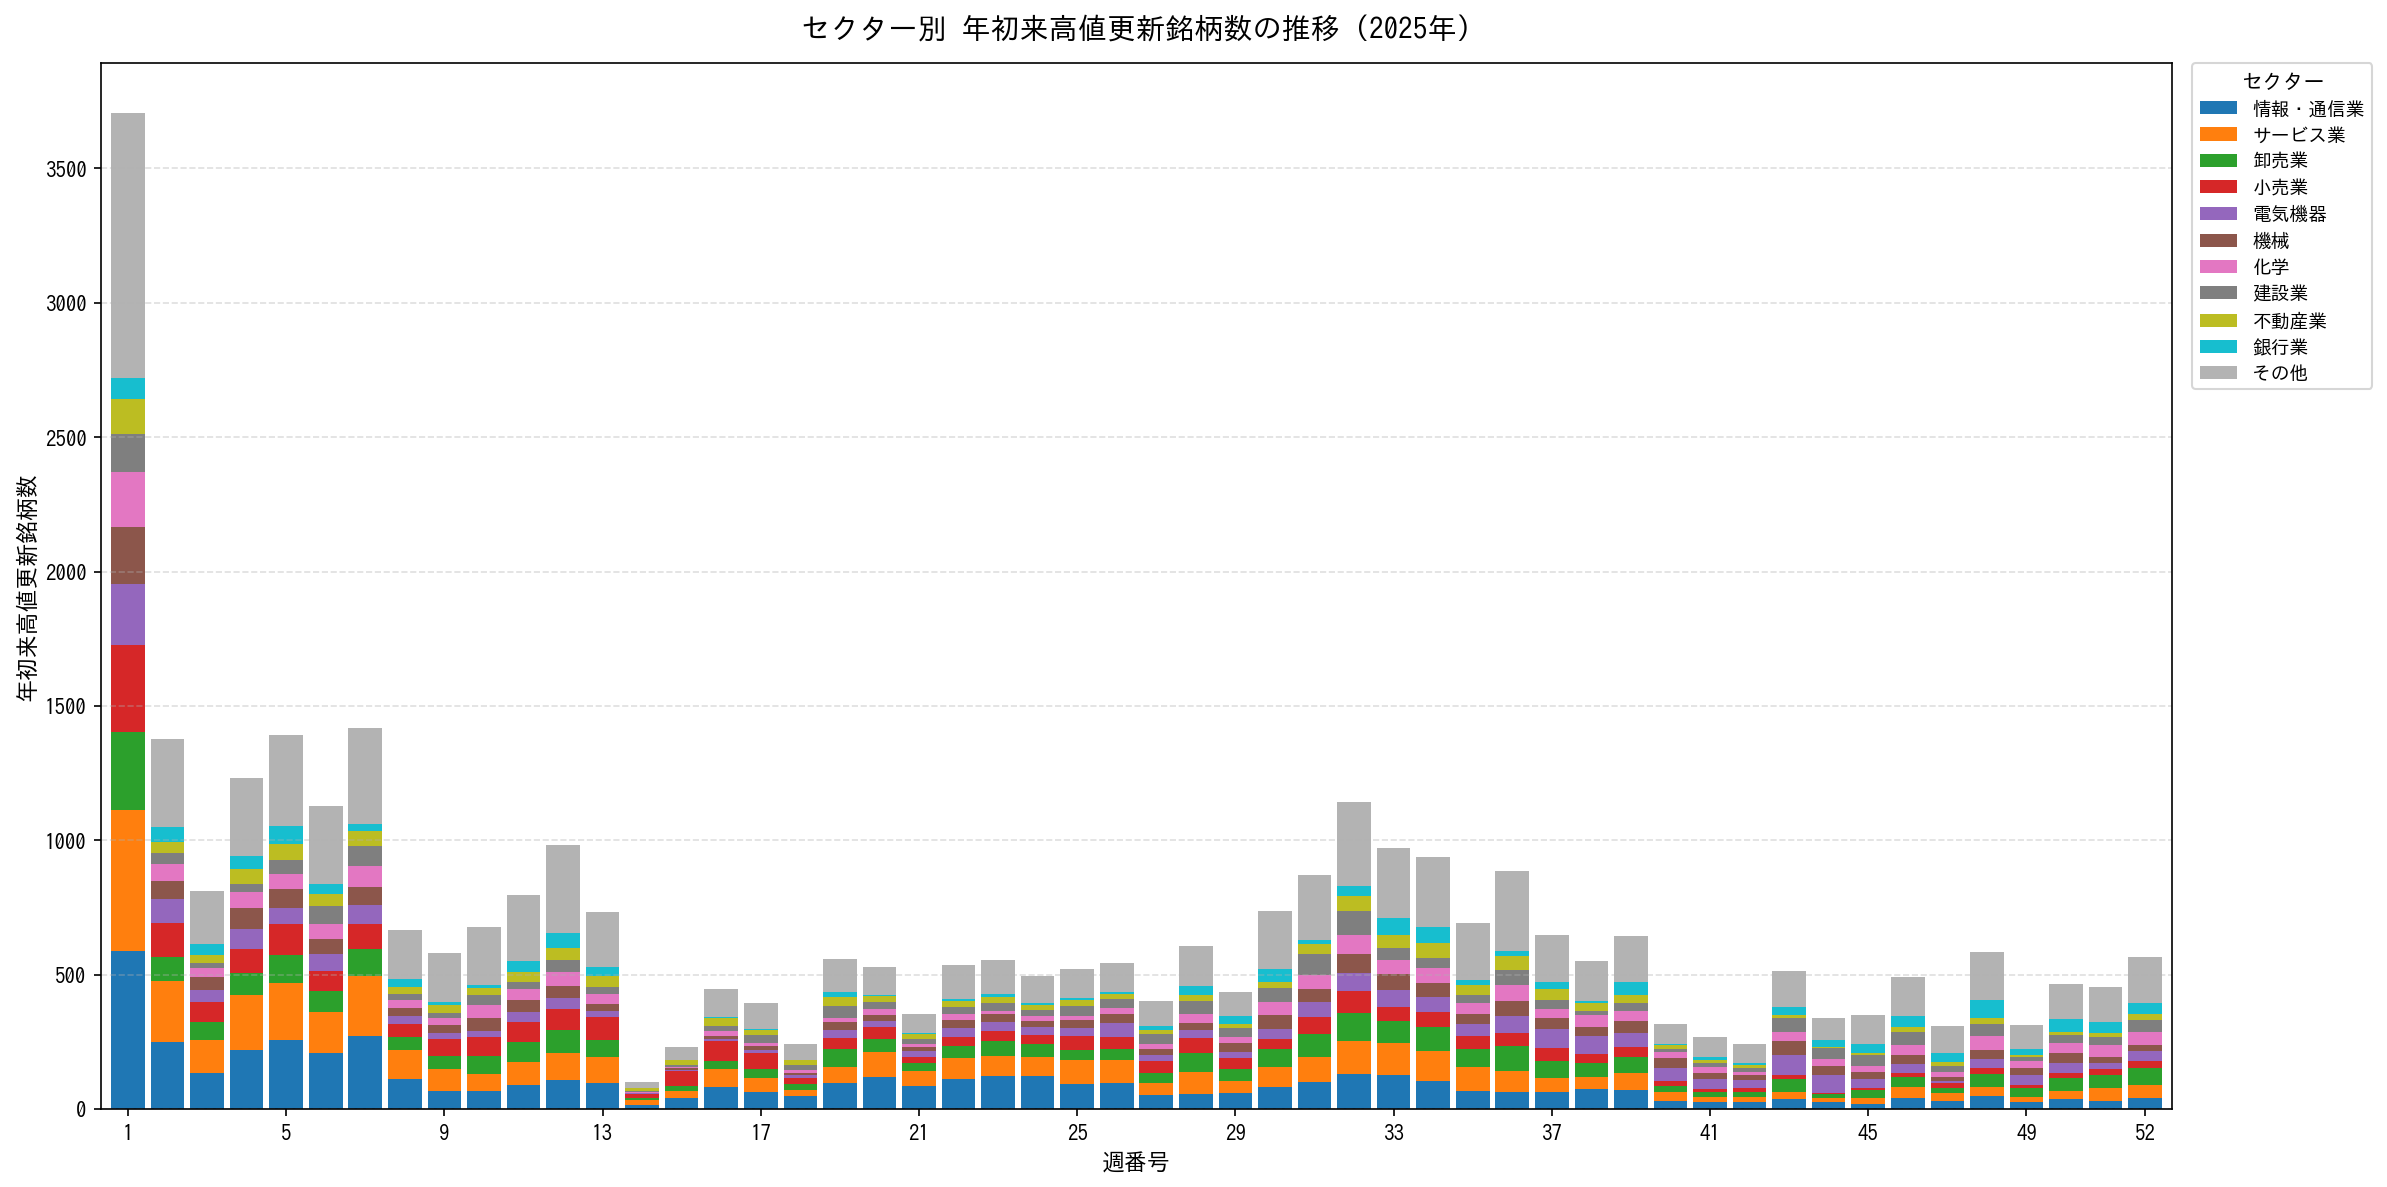
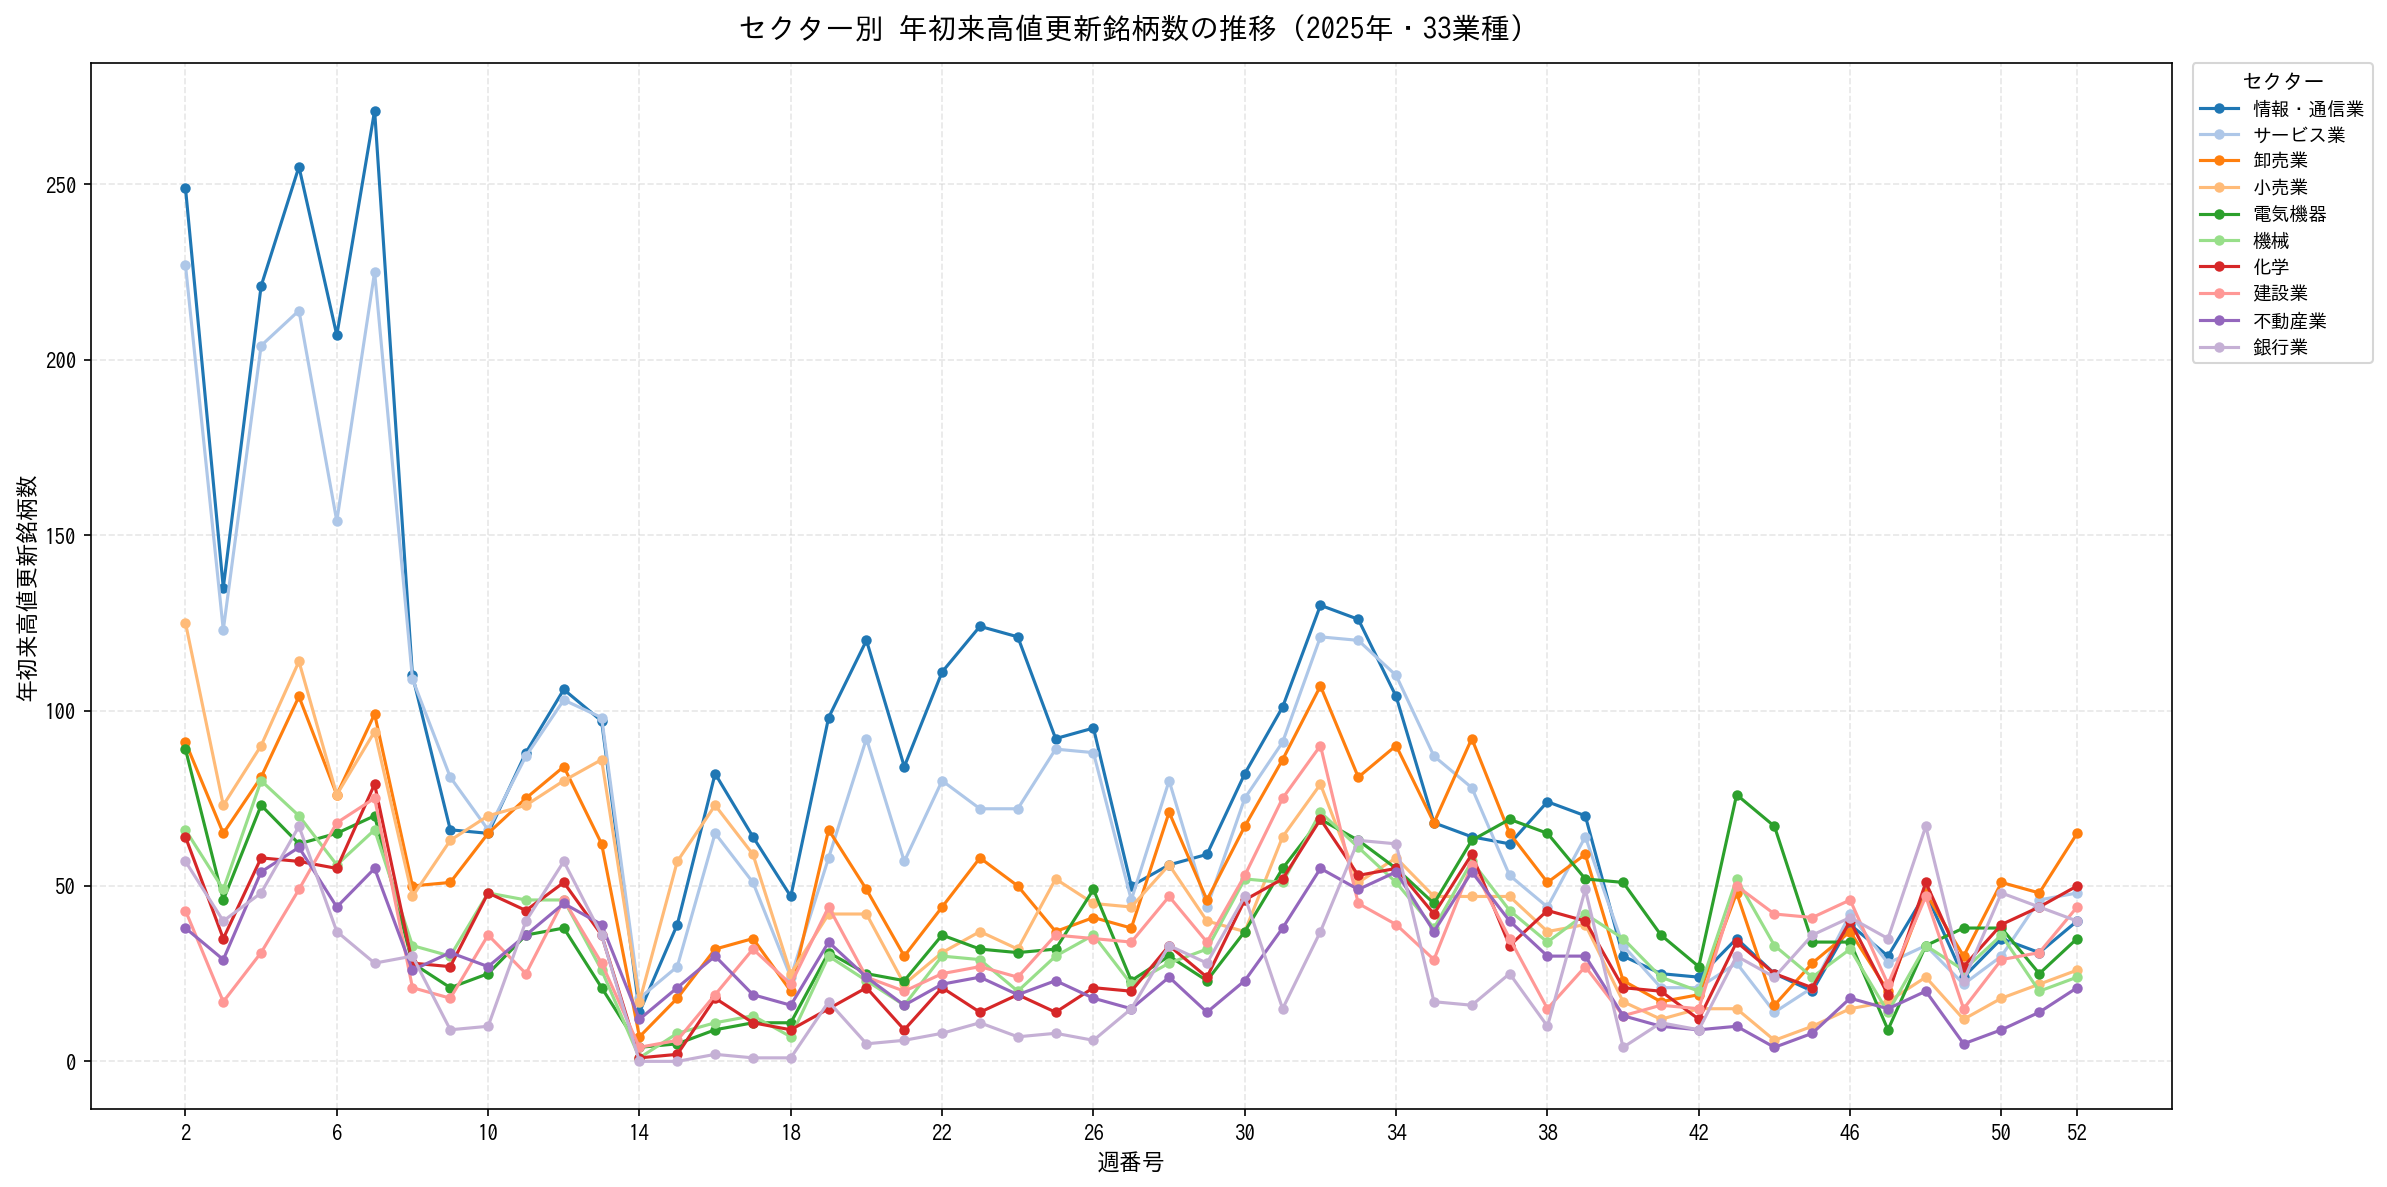
Add fine-grained sector analysis with line chart (shikiho sub-industries)
- セクター分類を四季報小分類 (92カテゴリ) に変更 (--granularity fine)
  - 4q2_scored_universe.csv の simple_sector 列から '/' 右側の小分類を抽出
  - 未収録銘柄は東証33業種にフォールバック
  - 3,356銘柄が細分類、591銘柄が33業種フォールバック
- 第1週目をグラフから除外 (年始初日の全銘柄スパイクを回避、CSVには残存)
- 積み上げ棒グラフ → 折れ線グラフ に変更 (セクター別推移を比較しやすく)
- 「その他」をデフォルトで非表示 (--show-other で有効化)
- 後方互換: --granularity coarse で旧来の33業種モードを維持
- 出力: ytd_high_by_sector_{year}_fine.{png,csv}

https://claude.ai/code/session_011rtfifD5h5h51NWqFkstZQ

diff --git a/scripts/plot_ytd_high_by_sector.py b/scripts/plot_ytd_high_by_sector.py
@@ -1,8 +1,12 @@
 """
 週次セクター別 年初来高値更新銘柄数の分析・プロット
 
-ローカルの価格CSV (data/prices/) とセクターマスター (data/sector_master_template.csv) を使い、
-各週で年初来高値 (YTD high) を更新した銘柄数をセクター別に集計して積み上げ棒グラフを出力する。
+ローカルの価格CSV (data/prices/) とセクターマスターを使い、
+各週で年初来高値 (YTD high) を更新した銘柄数をセクター別に集計して折れ線グラフを出力する。
+
+セクター分類:
+  fine  (デフォルト): 四季報 scored_universe.csv の小分類 (92カテゴリ)
+  coarse           : 東証33業種 sector_master_template.csv
 """
 
 from __future__ import annotations
@@ -68,7 +72,7 @@ def _detect_japanese_font() -> str | None:
 # ---------------------------------------------------------------------------
 
 def load_sector_map(master_path: Path) -> dict[str, str]:
-    """セクターマスターを読み込み、セクターが '-' のエントリ (ETF等) を除外する。
+    """東証33業種マスターを読み込み、セクターが '-' のエントリ (ETF等) を除外する。
 
     Returns
     -------
@@ -79,21 +83,64 @@ def load_sector_map(master_path: Path) -> dict[str, str]:
     return {sym: sec for sym, sec in raw.items() if sec and sec != "-"}
 
 
+def load_fine_sector_map(path: Path) -> dict[str, str]:
+    """四季報 scored_universe.csv から細分類セクターマップを構築。
+
+    simple_sector 列は '大分類/小分類' 形式 (例: '情報通信/SI・ソフトウエア開発')。
+    '/' の右側（小分類）を抽出して返す。
+
+    Returns
+    -------
+    dict[str, str]
+        正規化済みシンボル -> 小分類セクター名 のマッピング
+    """
+    df = pd.read_csv(path, usecols=["ticker", "simple_sector"])
+    out: dict[str, str] = {}
+    for _, row in df.iterrows():
+        sym = normalize_symbol(str(row["ticker"]))
+        raw = str(row["simple_sector"]).strip()
+        if not raw or raw in ("nan", "-"):
+            continue
+        sub = raw.split("/", 1)[1].strip() if "/" in raw else raw
+        if sub:
+            out[sym] = sub
+    return out
+
+
+def build_sector_map(
+    sector_master: Path,
+    granularity: str,
+    fine_sector_csv: Path,
+) -> dict[str, str]:
+    """セクターマップを構築する。
+
+    fine モード: 四季報小分類を優先し、未収録銘柄は33業種にフォールバック。
+    coarse モード: 33業種のみ。
+    """
+    coarse_map = load_sector_map(sector_master)
+    if granularity == "coarse":
+        return coarse_map
+
+    fine_map = load_fine_sector_map(fine_sector_csv)
+    combined: dict[str, str] = {}
+    fine_hit = 0
+    for sym, coarse_sec in coarse_map.items():
+        if sym in fine_map:
+            combined[sym] = fine_map[sym]
+            fine_hit += 1
+        else:
+            combined[sym] = coarse_sec
+    fallback = len(coarse_map) - fine_hit
+    print(f"      細分類マッチ: {fine_hit}  フォールバック(33業種): {fallback}")
+    return combined
+
+
 # ---------------------------------------------------------------------------
 # 銘柄ごとの年初来高値更新日を取得
 # ---------------------------------------------------------------------------
 
 def compute_ytd_high_updates(symbol: str, price_path: Path, year: int) -> list[tuple[int, str]]:
     """指定銘柄について対象年に年初来高値を更新した週番号リストを返す。
-
-    Parameters
-    ----------
-    symbol : str
-        正規化済みシンボル (例: '1301.T')
-    price_path : Path
-        価格CSVファイルのパス
-    year : int
-        対象年
 
     Returns
     -------
@@ -109,7 +156,6 @@ def compute_ytd_high_updates(symbol: str, price_path: Path, year: int) -> list[t
     except Exception:
         return []
 
-    # 対象年のデータのみ抽出
     df = df[df["Date"].dt.year == year].copy()
     if df.empty:
         return []
@@ -121,9 +167,8 @@ def compute_ytd_high_updates(symbol: str, price_path: Path, year: int) -> list[t
 
     df = df.sort_values("Date").reset_index(drop=True)
 
-    # 当日を含む YTD high の cummax を計算し、1日シフトして「前日までの最高値」を得る
+    # 前日までのYTD最高値と比較して更新判定
     df["ytd_high_prev"] = df["High"].cummax().shift(1)
-    # 初日は比較対象なし → YTD高値更新とみなす
     df["is_new_ytd_high"] = (df["High"] >= df["ytd_high_prev"]) | df["ytd_high_prev"].isna()
 
     ytd_days = df[df["is_new_ytd_high"]].copy()
@@ -132,9 +177,10 @@ def compute_ytd_high_updates(symbol: str, price_path: Path, year: int) -> list[t
 
     # 週番号: 年初からの経過日数ベース (ISO週の年境界問題を回避)
     day_of_year = ytd_days["Date"].dt.dayofyear
+    ytd_days = ytd_days.copy()
     ytd_days["week"] = ((day_of_year - 1) // 7 + 1).clip(upper=52)
 
-    # 各週で重複排除 (同一週に複数回更新しても1回のみカウント)
+    # 各週で重複排除
     weeks_seen: set[int] = set()
     result: list[tuple[int, str]] = []
     for week in ytd_days["week"]:
@@ -164,33 +210,52 @@ def main() -> int:
         "--sector-master",
         type=Path,
         default=ROOT_DIR / "data" / "sector_master_template.csv",
-        help="セクターマスターCSVパス",
+        help="東証33業種マスターCSVパス",
+    )
+    parser.add_argument(
+        "--granularity",
+        choices=["coarse", "fine"],
+        default="fine",
+        help="セクター粒度: coarse=33業種, fine=四季報小分類 (デフォルト: fine)",
+    )
+    parser.add_argument(
+        "--fine-sector-csv",
+        type=Path,
+        default=ROOT_DIR / "projects" / "shikiho_text_parser" / "output" / "4q2_selection" / "4q2_scored_universe.csv",
+        help="細分類セクターCSV (四季報 scored_universe)",
     )
     parser.add_argument("--top-n", type=int, default=10, help="上位表示セクター数 (デフォルト: 10)")
+    parser.add_argument(
+        "--show-other",
+        action="store_true",
+        default=False,
+        help="折れ線グラフに「その他」集計線を表示する (デフォルト: 非表示)",
+    )
     parser.add_argument(
         "--output",
         type=Path,
         default=None,
-        help="出力PNGパス (デフォルト: data/ytd_high_by_sector_{year}.png)",
+        help="出力PNGパス (デフォルト: data/ytd_high_by_sector_{year}[_fine].png)",
     )
     parser.add_argument(
         "--csv-output",
         type=Path,
         default=None,
-        help="出力CSVパス (デフォルト: data/ytd_high_by_sector_{year}.csv)",
+        help="出力CSVパス (デフォルト: data/ytd_high_by_sector_{year}[_fine].csv)",
     )
     args = parser.parse_args()
 
     year: int = args.year
     price_dir: Path = args.price_dir
     top_n: int = args.top_n
-    output_png: Path = args.output or ROOT_DIR / "data" / f"ytd_high_by_sector_{year}.png"
-    output_csv: Path = args.csv_output or ROOT_DIR / "data" / f"ytd_high_by_sector_{year}.csv"
+    suffix = "_fine" if args.granularity == "fine" else ""
+    output_png: Path = args.output or ROOT_DIR / "data" / f"ytd_high_by_sector_{year}{suffix}.png"
+    output_csv: Path = args.csv_output or ROOT_DIR / "data" / f"ytd_high_by_sector_{year}{suffix}.csv"
 
-    # --- セクターマスター読込 ---
-    print(f"[1/4] セクターマスターを読み込み中: {args.sector_master}")
-    sector_map = load_sector_map(args.sector_master)
-    print(f"      対象銘柄数: {len(sector_map)} (ETF等を除外済み)")
+    # --- セクターマップ構築 ---
+    print(f"[1/4] セクターマップを構築中 (granularity={args.granularity}) ...")
+    sector_map = build_sector_map(args.sector_master, args.granularity, args.fine_sector_csv)
+    print(f"      対象銘柄数: {len(sector_map)}  ユニークセクター数: {len(set(sector_map.values()))}")
 
     # --- 各銘柄の年初来高値更新日を収集 ---
     print(f"[2/4] {year}年の年初来高値更新日を収集中 ...")
@@ -199,7 +264,6 @@ def main() -> int:
     total = len(sector_map)
 
     for idx, (symbol, sector) in enumerate(sector_map.items(), start=1):
-        # ファイル名: 1301.T -> 1301_T.csv
         fname = symbol.replace(".", "_") + ".csv"
         price_path = price_dir / fname
 
@@ -228,8 +292,7 @@ def main() -> int:
     pivot = result_df.groupby(["week", "sector"]).size().unstack(fill_value=0)
 
     # 全52週のインデックスを確保
-    all_weeks = range(1, 53)
-    pivot = pivot.reindex(all_weeks, fill_value=0)
+    pivot = pivot.reindex(range(1, 53), fill_value=0)
 
     # Top-N セクター選択
     sector_totals = pivot.sum(axis=0).sort_values(ascending=False)
@@ -240,7 +303,7 @@ def main() -> int:
     if other_sectors:
         plot_df["その他"] = pivot[other_sectors].sum(axis=1)
 
-    # CSV保存
+    # CSV保存 (第1週含む全データ)
     output_csv.parent.mkdir(parents=True, exist_ok=True)
     plot_df.to_csv(output_csv)
     print(f"      CSVを保存しました: {output_csv}")
@@ -255,43 +318,68 @@ def main() -> int:
         use_japanese = False
         print("      警告: 日本語フォントが見つかりません。ラベルを英語表記にします。")
 
-    # カラーパレット (Top-10 + その他 = 最大11色)
-    cmap = plt.get_cmap("tab10")
-    colors = [cmap(i % 10) for i in range(len(plot_df.columns))]
+    # 第1週を除外してプロット (年始初日の全銘柄スパイクを回避)
+    # 「その他」は折れ線グラフでは非表示がデフォルト (--show-other で有効化)
+    cols_to_plot = list(plot_df.columns)
+    if not args.show_other and "その他" in cols_to_plot:
+        cols_to_plot = [c for c in cols_to_plot if c != "その他"]
+    plot_display = plot_df.loc[2:, cols_to_plot]
+
+    # カラーパレット (tab20: 最大20色、超過分はローテーション)
+    cmap = plt.get_cmap("tab20")
+    n_cols = len(plot_display.columns)
+    colors = [cmap(i % 20) for i in range(n_cols)]
     # 「その他」は灰色
-    if "その他" in plot_df.columns:
-        colors[-1] = (0.7, 0.7, 0.7, 1.0)
+    if "その他" in plot_display.columns:
+        colors[list(plot_display.columns).index("その他")] = (0.6, 0.6, 0.6, 1.0)
 
     fig, ax = plt.subplots(figsize=(16, 8))
-    plot_df.plot(kind="bar", stacked=True, ax=ax, width=0.85, color=colors)
+    plot_display.plot(
+        kind="line",
+        ax=ax,
+        color=colors,
+        marker="o",
+        markersize=4,
+        linewidth=1.5,
+    )
 
     if use_japanese:
-        ax.set_title(f"セクター別 年初来高値更新銘柄数の推移 ({year}年)", fontsize=14, pad=12)
+        granularity_label = "細分類" if args.granularity == "fine" else "33業種"
+        ax.set_title(
+            f"セクター別 年初来高値更新銘柄数の推移 ({year}年・{granularity_label})",
+            fontsize=14, pad=12,
+        )
         ax.set_xlabel("週番号", fontsize=11)
         ax.set_ylabel("年初来高値更新銘柄数", fontsize=11)
     else:
-        ax.set_title(f"Weekly YTD-High Update Count by Sector ({year})", fontsize=14, pad=12)
+        ax.set_title(
+            f"Weekly YTD-High Update Count by Sector ({year}, {args.granularity})",
+            fontsize=14, pad=12,
+        )
         ax.set_xlabel("Week Number", fontsize=11)
         ax.set_ylabel("Number of Stocks Hitting YTD Highs", fontsize=11)
 
-    # x軸ラベル: 4週ごとに表示
-    tick_positions = list(range(0, 52, 4)) + [51]
-    tick_labels = [str(w + 1) for w in tick_positions]
+    # x軸: 第2週から4週刻み
+    tick_positions = list(range(2, 53, 4))
+    if 52 not in tick_positions:
+        tick_positions.append(52)
     ax.set_xticks(tick_positions)
-    ax.set_xticklabels(tick_labels, rotation=0)
+    ax.set_xticklabels([str(w) for w in tick_positions], rotation=0)
 
-    # 凡例をプロット右外側に
+    ax.grid(axis="both", linestyle="--", alpha=0.3)
+
+    # 凡例: 12本以上なら2列
+    legend_ncol = 2 if n_cols >= 12 else 1
     ax.legend(
         title="セクター" if use_japanese else "Sector",
         bbox_to_anchor=(1.01, 1),
         loc="upper left",
         borderaxespad=0,
         fontsize=9,
+        ncol=legend_ncol,
     )
 
-    ax.grid(axis="y", linestyle="--", alpha=0.4)
     fig.tight_layout()
-
     output_png.parent.mkdir(parents=True, exist_ok=True)
     fig.savefig(output_png, dpi=150, bbox_inches="tight")
     plt.close(fig)